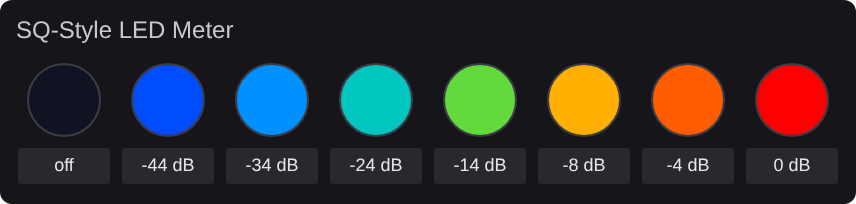
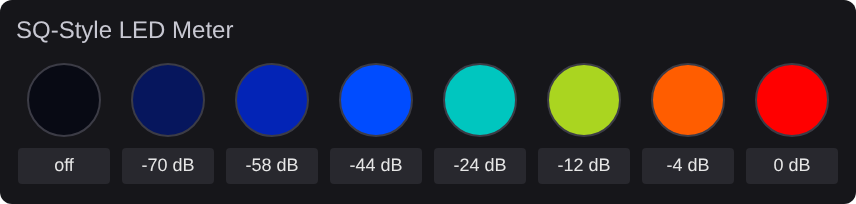
Fade the LED in from dark below the blue point
Below Full Blue At the LED used to switch off, which showed as a flat
color with no sense of level. It now stays lit and brightens from
near-black at Fade In From (default -80 dB) to deep blue at Full Blue
At (default -48 dB), so the color alone carries the level. Off Below
is replaced by these two properties.

diff --git a/test/test_plugin.py b/test/test_plugin.py
@@ -8,6 +8,13 @@ def plugin():
     return Plugin()
 
 
+OFF = (0x08, 0x0A, 0x14)
+
+
+def brightness(color):
+    return sum(color)
+
+
 def rgb(hex_color):
     return tuple(int(hex_color[i:i + 2], 16) for i in (1, 3, 5))
 
@@ -51,12 +58,28 @@ def test_silence_turns_led_off(plugin):
     c = plugin.boot(Channels=1)
     set_level(c, 1, -100)
     plugin.tick()
-    assert c.led_1.Boolean is False
+    assert c.led_1.Boolean is True     # always lit; the color shows silence
+    assert rgb(c.led_1.Color) == OFF
+
+
+def test_fade_in_gets_brighter_below_blue(plugin):
+    # Regression: below the blue point the LED went straight to a flat color.
+    # Between Fade In From (-80) and Full Blue At (-48) it should brighten.
+    c = plugin.boot(Channels=1)
+    seen = []
+    for db in (-80, -72, -64, -56, -48):
+        set_level(c, 1, db)
+        plugin.tick()
+        seen.append(rgb(c.led_1.Color))
+    assert seen[0] == OFF
+    levels = [brightness(x) for x in seen]
+    assert levels == sorted(levels) and len(set(levels)) == len(levels)
+    assert all(b >= r for r, g, b in seen)     # stays in the blue family
 
 
 def test_low_level_is_blue_and_top_is_red(plugin):
     c = plugin.boot(Channels=2)
-    set_level(c, 1, -47)   # just above the default -48 floor
+    set_level(c, 1, -47)   # just above the default -48 full-blue point
     set_level(c, 2, 6)     # past the 0 dB top of the range
     plugin.tick()
     r, g, b = rgb(c.led_1.Color)
@@ -85,14 +108,15 @@ def test_release_fades_color_back_down(plugin):
     plugin.tick(20)         # ~21 dB down after a second
     assert rgb(c.led_1.Color)[0] < r1
     plugin.tick(60)         # long gone
-    assert c.led_1.Boolean is False
+    assert rgb(c.led_1.Color) == OFF
 
 
 def test_range_properties_rescale_colors(plugin):
-    c = plugin.boot(Channels=1, overrides={"Off Below (dB)": -20, "Full Red At (dB)": -10})
-    set_level(c, 1, -21)
+    c = plugin.boot(Channels=1, overrides={
+        "Fade In From (dB)": -30, "Full Blue At (dB)": -20, "Full Red At (dB)": -10})
+    set_level(c, 1, -30)
     plugin.tick()
-    assert c.led_1.Boolean is False
+    assert rgb(c.led_1.Color) == OFF
     set_level(c, 1, -10)
     plugin.tick()
     assert rgb(c.led_1.Color) == (255, 0, 0)
@@ -123,8 +147,8 @@ def test_release_property_sets_fall_rate(plugin):
     set_level(c, 1, 0)
     plugin.tick()
     set_level(c, 1, -100)
-    plugin.tick(5)          # 200 dB/s * 0.25 s = 50 dB, below the -48 floor
-    assert c.led_1.Boolean is False
+    plugin.tick(8)          # 200 dB/s * 0.4 s = 80 dB, down to the -80 fade floor
+    assert rgb(c.led_1.Color) == OFF
 
 
 def test_named_component_source(plugin):
@@ -152,18 +176,18 @@ def test_color_sweep_ignores_input(plugin):
     c = plugin.boot(Channels=2, overrides={"Diagnostics": "Color Sweep"})
     set_level(c, 1, -100)
     seen = set()
-    for _ in range(80):
+    for _ in range(100):
         plugin.tick()
         seen.add(c.led_2.Color)
-    assert c.led_1.Boolean and len(seen) > 40
-    assert "#FF0000" in seen
+    assert len(seen) > 50
+    assert "#FF0000" in seen and "#080A14" in seen
 
 
 def test_log_mode_runs(plugin):
     c = plugin.boot(Channels=2, overrides={"Diagnostics": "Log"})
     set_level(c, 1, -10)
     plugin.tick(40)
-    assert c.led_1.Boolean
+    assert rgb(c.led_1.Color) != OFF
 
 
 def test_runtime_error_is_reported_not_fatal(plugin):

diff --git a/tools/preview.py b/tools/preview.py
@@ -13,7 +13,7 @@ from pathlib import Path
 sys.path.insert(0, str(Path(__file__).resolve().parent.parent / "test"))
 from qsys_mock import Plugin  # noqa: E402
 
-DEMO = [-100, -44, -34, -24, -14, -8, -4, 0, -40, -18, -6, -1]
+DEMO = [-100, -70, -58, -44, -24, -12, -4, 0, -40, -18, -6, -1]
 
 
 def rgb(t):

diff --git a/README.md b/README.md
@@ -1,7 +1,7 @@
 # qsys-gradientmeter: SQ-Style LED Meter (Q-SYS plugin)
 
 One LED per channel whose color follows the audio level: dark when there is no
-signal, then blue, through green and yellow, to red at the top of the range.
+signal, fading up to blue, through green and yellow, to red at the top of the range.
 It's modelled on the signal LEDs of an Allen & Heath SQ console and built for
 Q-SYS Designer 10.x.
 
@@ -19,7 +19,8 @@ Q-SYS Designer 10.x.
 | Color Scheme | Blue to Red (SQ), Blue to Red (no green), Green to Red (Classic) |
 | LED Shape | Round or Square |
 | LED Size | 12–128 px |
-| Off Below (dB) | Default −48. Below this the LED is off; at it, deep blue |
+| Fade In From (dB) | Default −80. At and below this the LED is near-black (silence) |
+| Full Blue At (dB) | Default −48. Between Fade In From and here the LED brightens from dark to deep blue |
 | Full Red At (dB) | Default 0. At and above this the LED is solid red |
 | Release (dB/s) | Default 20. How fast the color falls back after a peak (rise is instant) |
 | Diagnostics | Off, Log (prints each channel's level and color once a second), or Color Sweep (cycles every LED through the gradient, ignoring the input) |
